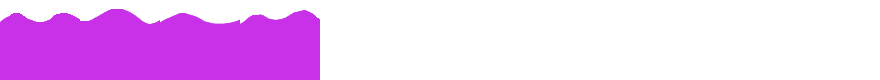
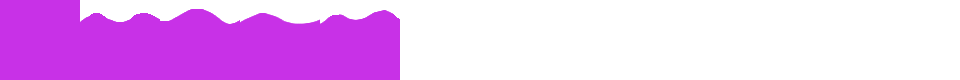
Apdate Acid Animation

Changed region(s): [[0.0, 0.0, 0.4295, 1.0]]

diff --git a/SlimeTrigger/STAGE.cpp b/SlimeTrigger/STAGE.cpp
@@ -356,7 +356,7 @@ bool STAGE::SetScrollPos(int moveX) {
 	if (scrollX >= 0 || scrollX <= -(80 * static_cast<int>(mapData.at(0).size()) - 640)) {
 		scrollX += 5 * moveX;
 		return true;
-	}*/
+	}
 	return false;
 }
 
